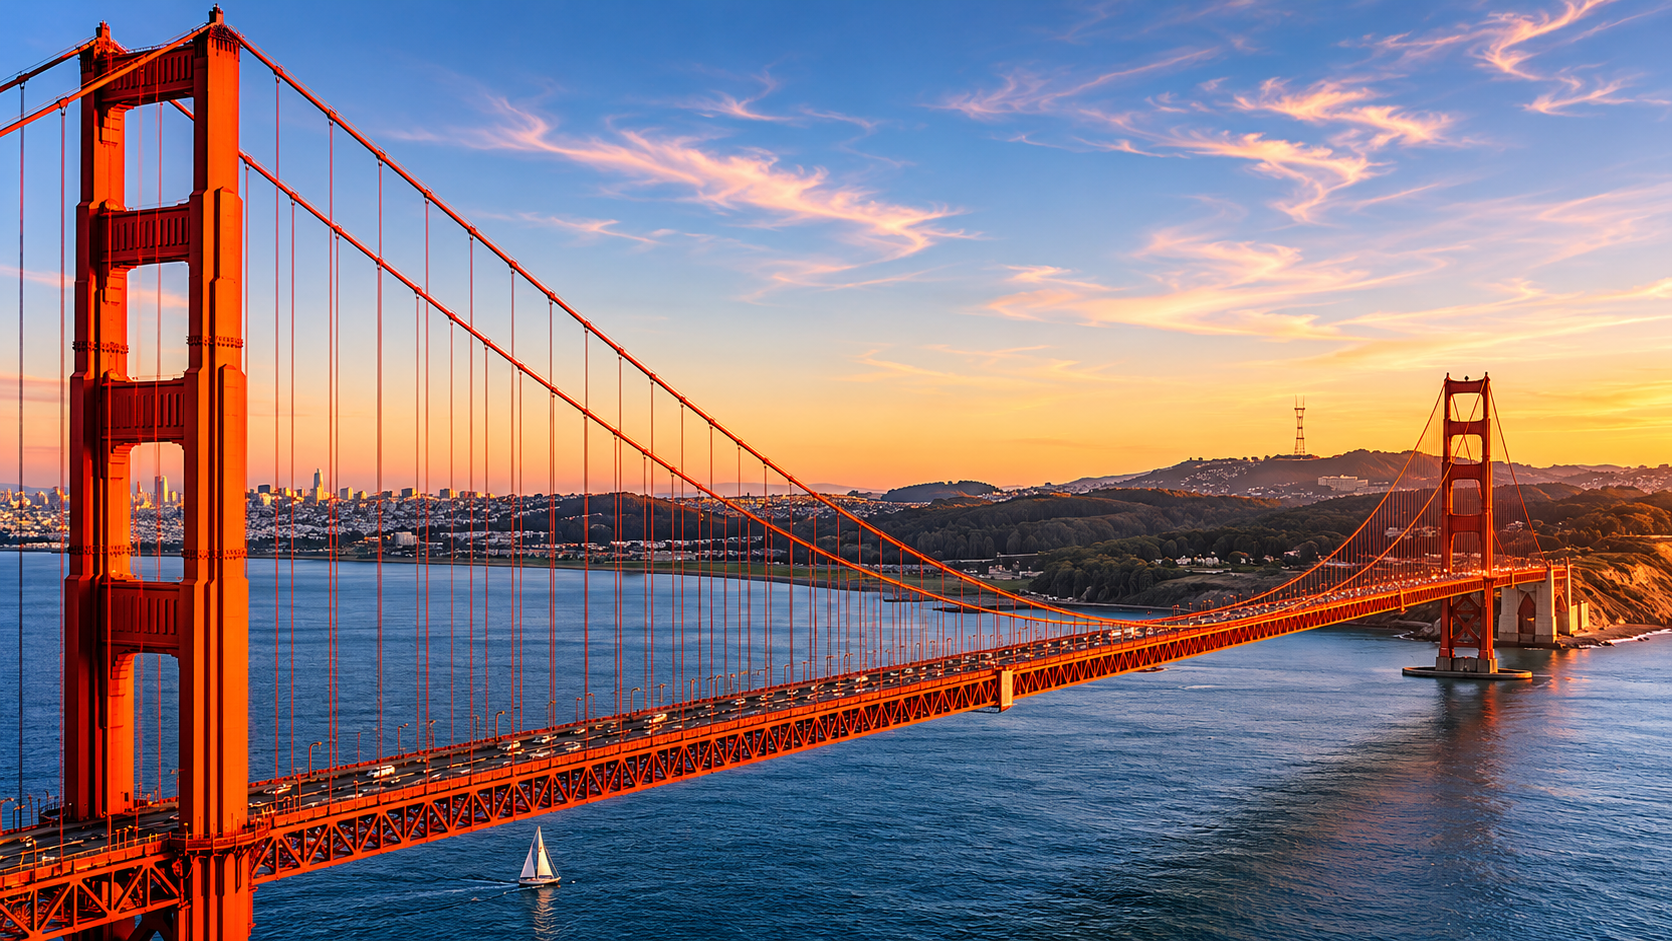
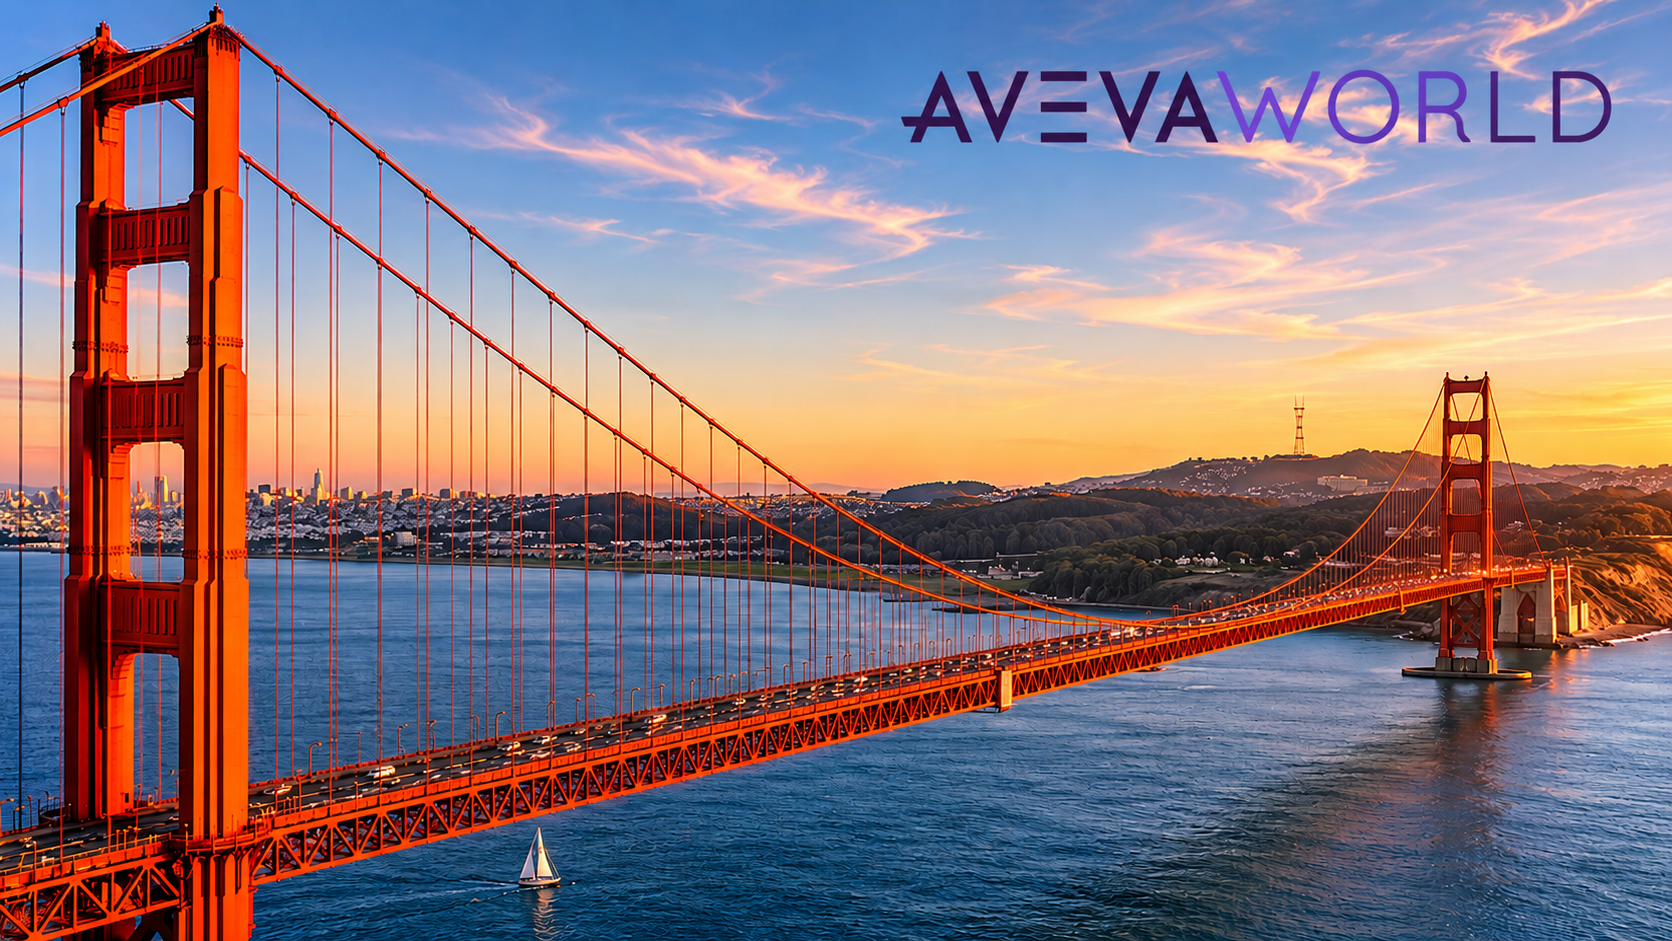
fixes

diff --git a/src/App.jsx b/src/App.jsx
@@ -1,4 +1,46 @@
-import { useState, useEffect, useCallback } from "react";
+import { useState, useEffect, useCallback, useRef } from "react";
+
+const AnimatedPercentage = ({ value }) => {
+  const target = parseInt(value.replace("%", ""), 10);
+  const [count, setCount] = useState(0);
+  const ref = useRef(null);
+
+  useEffect(() => {
+    const observer = new IntersectionObserver(
+      (entries) => {
+        if (entries[0].isIntersecting) {
+          let startTimestamp = null;
+          const duration = 1500;
+
+          const step = (timestamp) => {
+            if (!startTimestamp) startTimestamp = timestamp;
+            const progress = Math.min((timestamp - startTimestamp) / duration, 1);
+            
+            const easeOut = 1 - Math.pow(1 - progress, 3);
+            
+            setCount(Math.floor(easeOut * target));
+
+            if (progress < 1) {
+              window.requestAnimationFrame(step);
+            }
+          };
+          window.requestAnimationFrame(step);
+        } else {
+          setCount(0); 
+        }
+      },
+      { threshold: 0.1 }
+    );
+
+    if (ref.current) observer.observe(ref.current);
+
+    return () => {
+      if (ref.current) observer.unobserve(ref.current);
+    };
+  }, [target]);
+
+  return <span ref={ref}>{count}%</span>;
+};
 
 // --- КОНСТАНТЫ ИДЕНТИФИКАЦИИ ДАННЫХ ---
 const METADATA = {
@@ -43,7 +85,7 @@ const TEAM_MEMBERS = [
   {
     name: "Елена Дятлова",
     role: "Начальник Департамента",
-    date: "19.11.2024",
+    date: "ноября 2024",
     photo: "photos/2.png",
     skills: [
       "Координация задач",
@@ -56,7 +98,7 @@ const TEAM_MEMBERS = [
   {
     name: "Рустам Абдрашитов",
     role: "Главный специалист",
-    date: "12.02.2025",
+    date: "февраля 2025",
     photo: "photos/1.png",
     skills: [
       "Лицензии",
@@ -68,7 +110,7 @@ const TEAM_MEMBERS = [
   {
     name: "Регина Кусалиева",
     role: "Ведущий специалист",
-    date: "26.05.2025",
+    date: "мая 2025",
     photo: "photos/3.png",
     skills: [
       "Каталог",
@@ -80,7 +122,7 @@ const TEAM_MEMBERS = [
   {
     name: "Игорь Силантьев",
     role: "Главный специалист",
-    date: "22.06.2025",
+    date: "июня 2025",
     photo: "photos/4.png",
     skills: [
       "Программирование",
@@ -93,13 +135,14 @@ const TEAM_MEMBERS = [
   {
     name: "Дмитрий Фомин",
     role: "Главный специалист",
-    date: "09.02.2026",
+    date: "февраля 2026",
     photo: "photos/5.png",
     skills: [
       "Tekla Structures",
       "Каталог профилей",
       "Администратор Tekla",
       "Работа с подрядчиками АСО",
+      "Маппинг",
     ],
   },
 ];
@@ -188,7 +231,7 @@ export default function DreamZinePresentation() {
       >
         <img
           src={`${import.meta.env.BASE_URL}bg.png`}
-          alt="Tekla Fullscreen Background"
+          alt="First Fullscreen Background"
           className="w-full h-full object-cover opacity-50"
           onError={(e) => {
             e.target.style.display = "none";
@@ -222,7 +265,24 @@ export default function DreamZinePresentation() {
       >
         <img
           src={`${import.meta.env.BASE_URL}bg2.png`}
-          alt="Tekla Fullscreen Background"
+          alt="Second Fullscreen Background"
+          className="w-full h-full object-cover opacity-50"
+          onError={(e) => {
+            e.target.style.display = "none";
+          }}
+        />
+        {/* Затемняющий оверлей */}
+        <div className="absolute inset-0 bg-gradient-to-r from-[#050506] via-[#050506]/70 to-[#050506]/40" />
+      </div>
+
+      <div
+        className={`absolute inset-0 z-0 transition-opacity duration-700 ease-in-out pointer-events-none ${
+          currentSlide === 10 ? "opacity-100" : "opacity-0"
+        }`}
+      >
+        <img
+          src={`${import.meta.env.BASE_URL}bg3.png`}
+          alt="Third Fullscreen Background"
           className="w-full h-full object-cover opacity-50"
           onError={(e) => {
             e.target.style.display = "none";
@@ -312,7 +372,7 @@ export default function DreamZinePresentation() {
                 </span>
               </h1>
               <p className="text-zinc-400 max-w-3xl text-lg lg:text-xl font-light leading-relaxed mb-10">
-                Создано при помощи искусственного интеллекта 😎
+                Создано при помощи искусственного интеллекта
               </p>
               <div className="flex items-center gap-6">
                 <button
@@ -343,17 +403,17 @@ export default function DreamZinePresentation() {
                 Единая экосистема управления информацией с полным контролем
                 архитектуры. В отличие от SMART, AVEVA позволяет создавать
                 настраиваемые базы данных под специфические требования
-                организации.
+                организации
               </p>
               <div className="grid grid-cols-1 md:grid-cols-2 gap-6 pt-4 max-w-4xl">
                 <div className="p-6 bg-zinc-900/40 border border-zinc-800 rounded-lg">
                   <i className="fa-solid fa-diagram-project text-[#c6ff00] mb-4 text-3xl block" />
                   <h4 className="text-white font-medium text-lg mb-2">
-                    P&ID → 3D автоматически
+                    Технологические схемы создаются в AVEVA Diagrams
                   </h4>
                   <p className="text-zinc-500 text-sm leading-relaxed">
-                    Атрибуты оборудования и трубопроводов из AVEVA Diagrams
-                    автоматически передаются в 3D-геометрию E3D и документацию.
+                    Атрибуты оборудования и трубопроводов автоматически
+                    передаются в 3D-геометрию и документацию.
                   </p>
                 </div>
                 <div className="p-6 bg-zinc-900/40 border border-zinc-800 rounded-lg">
@@ -364,7 +424,7 @@ export default function DreamZinePresentation() {
                   <p className="text-zinc-500 text-sm leading-relaxed">
                     Строительные конструкции Tekla Structures воспринимаются
                     «родными» элементами AVEVA — с идентификацией профиля,
-                    замерами и атрибутами.
+                    возможностью замеров и атрибутами.
                   </p>
                 </div>
               </div>
@@ -585,18 +645,13 @@ export default function DreamZinePresentation() {
                     Повышение 3D-компетенций подразделений
                   </h2>
                 </div>
-                <div className="flex items-center gap-1 bg-zinc-900 p-1.5 rounded-lg border border-zinc-800 font-mono text-xs">
-                  <span className="bg-zinc-800 text-white px-3 py-1.5 rounded">
-                    Табличный вид
-                  </span>
-                </div>
               </div>
               <div className="w-full overflow-x-auto border border-zinc-800/80 rounded-xl bg-zinc-950/90">
                 <table className="w-full text-left text-sm border-collapse font-mono min-w-[700px]">
                   <thead>
                     <tr className="bg-zinc-900/80 border-b border-zinc-800 text-zinc-400">
                       <th className="p-4 font-medium uppercase tracking-wider">
-                        Класс подразделения
+                        Отдел
                       </th>
                       <th className="p-4 font-medium uppercase tracking-wider text-center">
                         Штат (24)
@@ -719,7 +774,7 @@ export default function DreamZinePresentation() {
                           <span
                             className={`px-2 py-1 rounded font-bold bg-[#c6ff00]/10 border border-[#c6ff00]/20 text-[#c6ff00]`}
                           >
-                            {row.r26}
+                            <AnimatedPercentage value={row.r26} />
                           </span>
                         </td>
                       </tr>
@@ -737,7 +792,7 @@ export default function DreamZinePresentation() {
                 06 // ИНДЕКС ЕМКОСТИ ПОРТФЕЛЯ
               </span>
               <h2 className="text-4xl lg:text-5xl font-bold text-white tracking-tight mb-10">
-                Активное масштабирование портфеля 3D проектов
+                Масштабирование портфеля 3D проектов
               </h2>
               <div className="space-y-8">
                 <div className="space-y-2">
@@ -827,7 +882,7 @@ export default function DreamZinePresentation() {
               <div className="w-full lg:w-3/5 grid grid-cols-1 sm:grid-cols-3 gap-4">
                 <div className="p-6 bg-zinc-900/20 border border-zinc-800 rounded-xl flex flex-col justify-between min-h-[180px]">
                   <span className="text-xs font-mono text-zinc-500 uppercase">
-                    Расходы вендора 2024
+                    Расходы 2024
                   </span>
                   <div className="my-4">
                     <span className="font-bold text-4xl text-white">2.18M</span>
@@ -1062,7 +1117,7 @@ export default function DreamZinePresentation() {
                 10 // СТАНДАРТЫ ОБЕСПЕЧЕНИЯ КАЧЕСТВА
               </span>
               <h2 className="text-4xl lg:text-5xl font-bold text-white tracking-tight mb-8">
-                Оптимизация инженерной модели. Повышение детализации объектов.
+                Оптимизация инженерной модели. Повышение детализации объектов
               </h2>
               <div className="w-full flex flex-col lg:flex-row items-center gap-10 justify-center">
                 <div className="w-full lg:w-1/2 h-80 lg:h-[400px] relative border border-zinc-800 rounded-xl overflow-hidden bg-zinc-950 flex flex-col justify-between p-4 group">
@@ -1153,42 +1208,42 @@ export default function DreamZinePresentation() {
                       param: "Управление трубопроводными классами",
                       old: "Таблицы классов отданы дисциплинам без участия ДРИМ; задания в Google-таблице, многократно изменяются, нет фиксации отработки.",
                       new: "Регламентированы правила создания классов AVEVA и выдачи заданий. Внедрены шаблоны.",
-                      highlight: false,
+                      highlight: true,
                     },
                     {
                       param: "Соответствие НТД / ГОСТ",
                       old: "Отсутствует проверка: элементы добавлялись с параметрами, не существующими в НТД.",
                       new: "Проверка заявок на соответствие актуальной НТД РФ; обязательная обратная связь по выполнению.",
-                      highlight: false,
+                      highlight: true,
                     },
                     {
                       param: "Кодирование и поиск элементов",
                       old: "Элементы обезличены — нет системы поиска и логики группировки.",
-                      new: "Введено кодирование элементов для быстрого поиска, корректировки и переиспользования.",
-                      highlight: false,
+                      new: "Введено кодирование элементов для быстрого поиска, корректировки и повторного использования в других проектах.",
+                      highlight: true,
                     },
                     {
                       param: "Структура каталога",
                       old: "Все детали в общем списке без логики по классу / материалу / типу / изготовителю.",
                       new: "Каталог структурирован, понятен и адаптирован для любого нового сотрудника ДРИМ.",
-                      highlight: false,
+                      highlight: true,
                     },
                     {
                       param: "Описание деталей",
                       old: "Описание уникальное и создаётся для каждого элемента отдельно — трудно корректировать.",
-                      new: "Введён интерактивный ссылочный набор описаний — универсальный и легко редактируемый.",
-                      highlight: false,
+                      new: "Введён интерактивный ссылочный набор описаний — универсальный и легко редактируемый под любой 3D объект.",
+                      highlight: true,
                     },
                     {
                       param: "Совместимость соединений",
                       old: "Все элементы присоединялись вне зависимости от совместимости по ГОСТ.",
-                      new: "Добавлена таблица совместимых соединений — соответствие ГОСТ гарантировано.",
-                      highlight: false,
+                      new: "Добавлена таблица совместимых соединений в соответствие с ГОСТ.",
+                      highlight: true,
                     },
                     {
                       param: "Учёт крепежа",
                       old: "Крепёж отсутствует в каталоге. Добавляется в РД текстом, в подсчётах не участвует.",
-                      new: "Добавлены спецификации на крепёжные изделия — полное включение в 3D и МТО.",
+                      new: "Добавлены спецификации на крепёжные изделия — полное включение в 3D-геометрию и спецификацию.",
                       highlight: true,
                     },
                   ].map((row, i) => (
